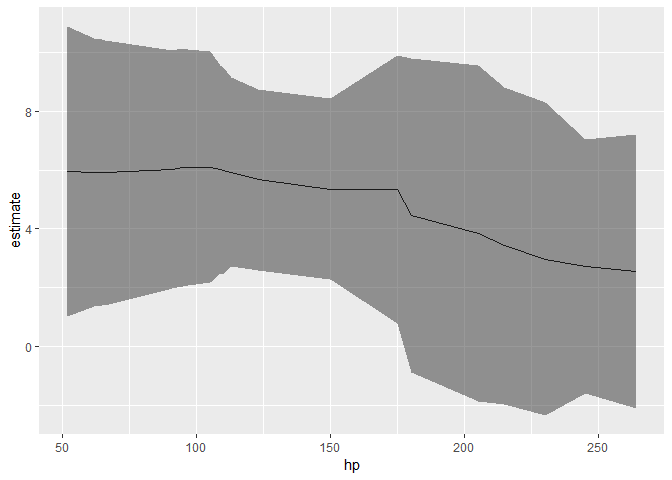
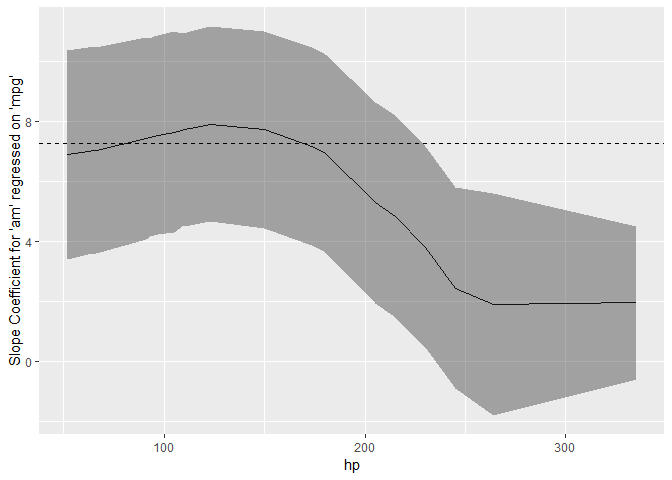
updated function name and documentation

diff --git a/README.md b/README.md
@@ -1,19 +1,14 @@
 
 <!-- README.md is generated from README.Rmd. Please edit that file -->
+[![Travis build status](https://travis-ci.org/ddsjoberg/sjosmooth.svg?branch=master)](https://travis-ci.org/ddsjoberg/sjosmooth) [![AppVeyor build status](https://ci.appveyor.com/api/projects/status/github/ddsjoberg/sjosmooth?branch=master&svg=true)](https://ci.appveyor.com/project/ddsjoberg/sjosmooth) [![Coverage status](https://codecov.io/gh/ddsjoberg/sjosmooth/branch/master/graph/badge.svg)](https://codecov.io/github/ddsjoberg/sjosmooth?branch=master)
 
-[![Travis build
-status](https://travis-ci.org/ddsjoberg/sjosmooth.svg?branch=master)](https://travis-ci.org/ddsjoberg/sjosmooth)
-[![AppVeyor build
-status](https://ci.appveyor.com/api/projects/status/github/ddsjoberg/sjosmooth?branch=master&svg=true)](https://ci.appveyor.com/project/ddsjoberg/sjosmooth)
-[![Coverage
-status](https://codecov.io/gh/ddsjoberg/sjosmooth/branch/master/graph/badge.svg)](https://codecov.io/github/ddsjoberg/sjosmooth?branch=master)
+sjosmooth
+=========
 
-# sjosmooth
+The goal of sjosmooth is to provide kernel smoothed estimates for time to event data.
 
-The goal of sjosmooth is to provide kernel smoothed estimates for time
-to event data.
-
-## Installation
+Installation
+------------
 
 You can install the released version of sjosmooth from GitHub with:
 
@@ -21,36 +16,46 @@ You can install the released version of sjosmooth from GitHub with:
 remotes::install_github("ddsjoberg/sjosmooth")
 ```
 
-## Example
+Example
+-------
 
 This is a basic example which shows you how to solve a common problem:
 
 ``` r
 library(sjosmooth)
+library(purrr)
 library(dplyr)
-#> 
-#> Attaching package: 'dplyr'
-#> The following objects are masked from 'package:stats':
-#> 
-#>     filter, lag
-#> The following objects are masked from 'package:base':
-#> 
-#>     intersect, setdiff, setequal, union
 library(tidyr)
 library(ggplot2)
-sm_beta_interaction(
+
+sm_wt_regression(
  data = mtcars,
  method = "lm",
- formula = mpg ~ am ,
- interaction = "hp"
+ formula = mpg ~ am,
+ weighting_var = "hp",
+ lambda = 2
 ) %>% 
+  mutate(
+     # tidying model
+        model_tidy = map(
+          model_obj,
+          ~broom::tidy(.x, conf.int = TRUE) %>%
+            dplyr::filter_(~term == "am")
+        )
+  ) %>%
   select(point, model_tidy) %>% 
   unnest(point) %>% 
   unnest(model_tidy) %>% 
   ggplot(aes(x = hp, y = estimate)) + 
   geom_line() + 
-  geom_ribbon(aes(ymin = conf.low, ymax = conf.high), alpha = 0.5)
-#> Warning in qt(a, object$df.residual): NaNs produced
+  geom_ribbon(aes(ymin = conf.low, ymax = conf.high), alpha = 0.4) +
+  geom_hline(
+    yintercept = lm(mpg ~ am, mtcars) %>% coef() %>% purrr::pluck(2),
+    linetype = "dashed"
+    ) +
+  labs(
+    y = "Slope Coefficient for 'am' regressed on 'mpg'"
+  )
 ```
 
 <img src="man/figures/README-example-1.png" width="100%" />
